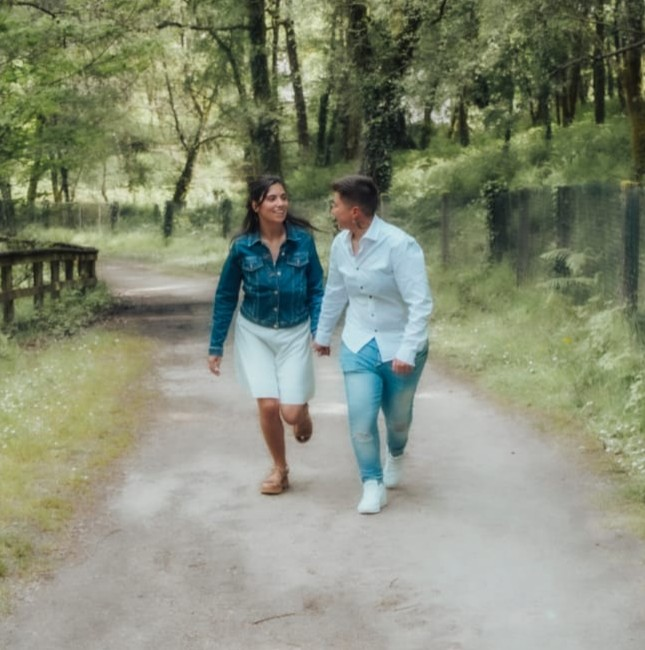
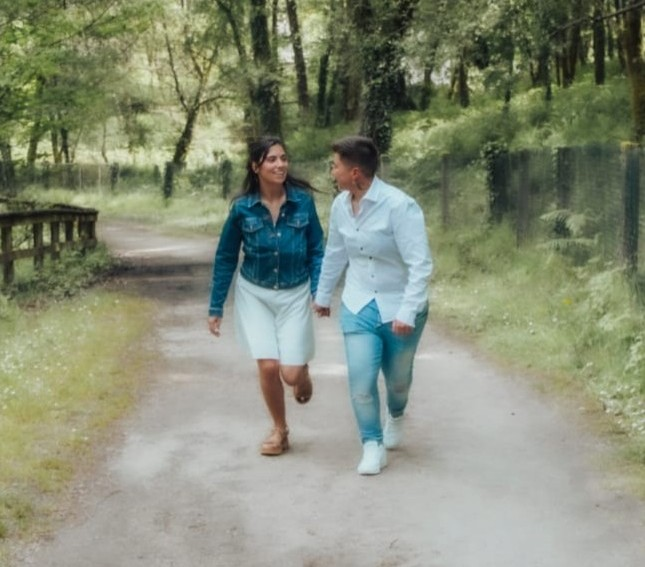
texto

diff --git a/index.html b/index.html
@@ -132,10 +132,10 @@
 
             <div class="copy-stack">
               <p>
-                Noelia y Jessica llegan a este d&iacute;a con una historia serena y luminosa, tejida con amor, paciencia y una complicidad que ha crecido en cada detalle. Han encontrado la una en la otra un hogar al que siempre volver.
+                Noelia y Jessica llegan a este d&iacute;a con una historia serena y luminosa, tejida con amor, paciencia y una complicidad que ha crecido en cada detalle. Han encontrado la una en la otra un hogar al que volver.
               </p>
               <p>
-                En ese mismo atardecer, Valentina recibir&aacute; su bautizo rodeada del amor de quienes m&aacute;s la quieren, en una celebraci&oacute;n &iacute;ntima para compartir esta nueva etapa en familia.
+                En ese mismo atardecer, Valentina recibir&aacute; su bautizo rodeada del amor de quienes m&aacute;s la quieren, en una celebraci&oacute;n &iacute;ntima para compartir esta nueva etapa.
               </p>
             </div>
 

diff --git a/styles.css b/styles.css
@@ -453,6 +453,10 @@ h2 {
   object-fit: cover;
 }
 
+#story .media-card {
+  width: min(100%, 240px);
+}
+
 @keyframes media-card-float {
   0% {
     transform: translateY(0) scale(1);
